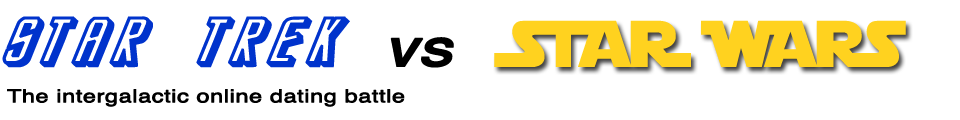
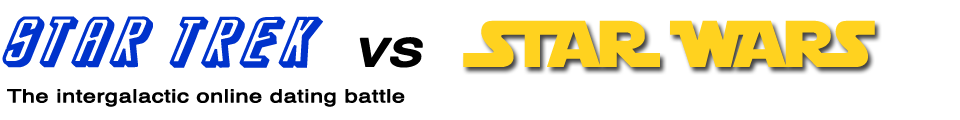
more styling updates

Changed region(s): [[0.1562, 0.125, 0.9688, 0.625]]

diff --git a/app.js b/app.js
@@ -63,7 +63,7 @@ var boba = new starWars('Boba Fett', 'img/star-wars/bobba.jpg', 'Bounty Hunter',
 var c3po = new starWars('C3PO', 'img/star-wars/c3po.jpg', 'Protocol Droid', 'I am fluent in over six million forms of communication. Wanna sext?');
 var chewie = new starWars('Chewie', 'img/star-wars/chewie.jpg', 'Bodyguard', 'Uuuuuuuuurrrr. Urrr. Arrrrrrrrr');
 var dooku = new starWars('Count Dooku', 'img/star-wars/dooku.jpg', 'Sith Lord', '', '');
-var ewok = new starWars('Ewok', 'img/star-wars/ewok.jpg', 'Hunter/Gatherer', 'Cute, small and hairy all over. Msg me if this sounds like a match.');
+var ewok = new starWars('Ewok', 'img/star-wars/ewok.jpg', 'Hunter/Gatherer', 'Cute, small and hairy all over. Msg me if you want to cuddle.');
 var femaleJedi = new starWars('Female Blue Jedi', 'img/star-wars/female-jedi.jpg', 'Jedi Knight', '');
 var jarjar = new starWars('Jar Jar Binks', 'img/star-wars/jarjar.jpg', 'Senator, Galactic Senate', 'I\'m the worst. THE WORST.');
 var lando = new starWars('Lando Calrissian', 'img/star-wars/lando.jpg', 'Smuggler/General for the Rebel Alliance', 'Questionable morals at times. Looking to take Ms. Right Now on a trip to Cloud City.');
@@ -114,8 +114,8 @@ tracker.displayImages = function(e) {
 
 		/*	grab two img placeholder elements by html attrib id's
 			assign src (from array position) to the img tags using img.src */
-		choice1.innerHTML = '<img alt ="' + starTrekArray[rand1].character + '" title="' + starTrekArray[rand1].character + '" src ="' + starTrekArray[rand1].path + '">';
-		choice2.innerHTML = '<img alt ="' + starWarsArray[rand2].character + '" title="' + starWarsArray[rand2].character + '" src ="' + starWarsArray[rand2].path + '">';
+		choice1.innerHTML = '<img class="choices" alt ="' + starTrekArray[rand1].character + '" title="' + starTrekArray[rand1].character + '" src ="' + starTrekArray[rand1].path + '">';
+		choice2.innerHTML = '<img class="choices" alt ="' + starWarsArray[rand2].character + '" title="' + starWarsArray[rand2].character + '" src ="' + starWarsArray[rand2].path + '">';
 
 		trekName.innerHTML = starTrekArray[rand1].character;
 		warsName.innerHTML = starWarsArray[rand2].character;		
@@ -187,11 +187,11 @@ function makechart()	{
 	var context = document.getElementById('results').getContext('2d');
 	var skillsChart = new Chart(context).Pie(data, {
 	    //Number - Amount of animation steps
-	    animationSteps : 20,
+	    animationSteps : 10,
 	    //String - Animation easing effect
 	    animationEasing : "easeOutBounce",
 	    //Boolean - Whether we animate the rotation of the Doughnut
-	    animateRotate : false,
+	    animateRotate : true,
 	    //Boolean - Whether we animate scaling the Doughnut from the centre
 	    animateScale : true
 	});

diff --git a/css/style.css b/css/style.css
@@ -16,15 +16,19 @@ body {
 }
 
 section {
-/*	border: 3px solid red;
-*/	padding: 0;
+	/*border: 3px solid red;*/
+	padding: 0;
 	margin-left: 0px;
 }
 
-img:hover {
+img.choices:hover {
   background-color: #B4EEB4;
   opacity: .75;
   cursor: pointer;
+}
+
+img.choices {
+  height: 300px;
 }
 
 img {
@@ -43,20 +47,28 @@ figure {
 */
 #content2 {
 	margin-top: 150px;
-/*	text-align: center;
-*/	padding-left: 25px;
+	text-align: center;
+	/*padding-left: 25px;*/
+	font-style: oblique;
+	font-weight: bolder;
+	line-height: 10%;
 }
-
-/*#chart {
-	padding-left: 30px;
-}*/
 
 #chart {
-	margin-left: 25px;
+	padding-left: 30px;
+	/*margin-bottom: 500px;*/
+	text-align: center;
 }
+/*
+section #chart {
+	margin-left: auto;
+	margin-right: auto;
+	text-align: center;
+}*/
 
-.title {
-	margin-left: 50px;
+h4.title {
+	margin-left: auto;
+	margin-right: auto;
 }
 
 header img {
@@ -73,8 +85,8 @@ p#slogan {
 hr {
 	border: 0;
 	color: orange;
-	background-color: gray;
-	height: 5px;
+	background-color: #cccccc;
+	height: 3px;
 	width: 100%;
 	text-align: left;
 	margin-top: -5px;
@@ -85,14 +97,43 @@ header {
 }
 
 footer {
-	text-align: right;
+	background-color: #cccccc;
+	padding-right: 40px;
+	height: 100px;
+	/*width: 100%;*/
+	padding-top: 3px;
+	margin-top: 50px;
 }
 
 footer p {
 	margin-top: 50px;
-	color: gray;
+	/*color: white;*/
+	position: absolute;
+	/*bottom: 0;*/
+	right: 40px;
+	text-align: right;
+	vertical-align: bottom;
 }
 
 section h4 {
 	margin-bottom: 5px;
 }
+
+aside {
+	text-align: right;
+	float: right;
+}
+
+canvas {
+	padding-top: 20px;
+}
+
+#trekName, #warsName {
+	color: #ff3366;
+	font-weight: bold;
+}
+
+/*#versus {
+	font-style: oblique;
+	font-weight: bold;
+}*/

diff --git a/index.html b/index.html
@@ -12,7 +12,7 @@
 <body>
 	<div id="wrapper">
 	<header class="container">
-		<img src="img/header.png">
+		<img src="img/header_v2.png">
 	</header>
 	</div>
 	<hr>
@@ -23,7 +23,7 @@
 		<p id="slogan">
 			Which intergalactic hotties do you want to Netflix and chill with??</p>
 		
-		<section id="content1" class="four columns">
+		<section id="content1" class="three columns">
 			<figure id="choice1" type="click">
 			</figure>
 			<h4 id="trekName">
@@ -32,27 +32,27 @@
 		</section>
 
 		<section id="content2" class="two columns">
-			<h3>VS</h3>
+			<h2 id="versus">VS</h2>
 		</section>
 
-		<section id="content3" class="four columns">
+		<section id="content3" class="three columns">
 			<figure id="choice2" type="click"></figure>
 			<h4 id="warsName">
 			</h4>
 			<p id="warsProfile">
 		</section>
 
-		<section id="chart" class="three columns">
+		<section id="chart" class="five columns">
 			<h4 class="title">Results</h4>
-			<canvas id="results" width="200" height="200">
+			<canvas id="results" width="225" height="225">
 			</canvas>
 
 <!-- 			<button type="click" id="done">I'm Done</button>
 			<p id="mvp"></p> -->
 		</section>
 
-<!-- 		<aside id="Links" class="four columns">
-			<h1>Fun Links</h1>
+<!-- 		<aside id="Links" class="five columns">
+			<h5 class="title">Fun Links</h5>
 			<ul>
 				<li><a href="" title="">Link 1</a></li>
 				<li><a href="" title="">Links 2</a></li>
@@ -64,9 +64,9 @@
 		</aside> -->
 	
 	</main>
-	<footer class="container">
+	<footer>
 		<p>
-			Pat Yau<br />
+			Pat Yau
 			&copy; 2015</p>
 	</footer>
 <script src="app.js"></script>
